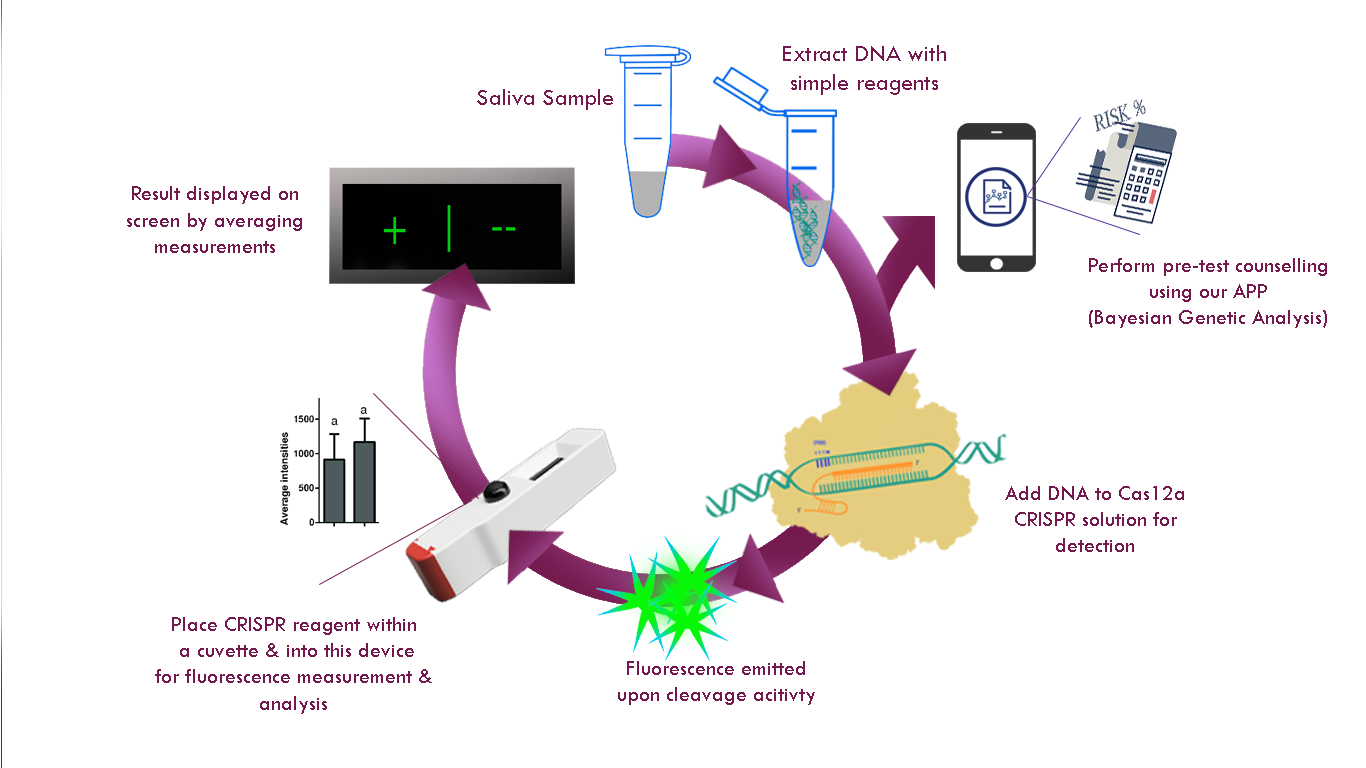
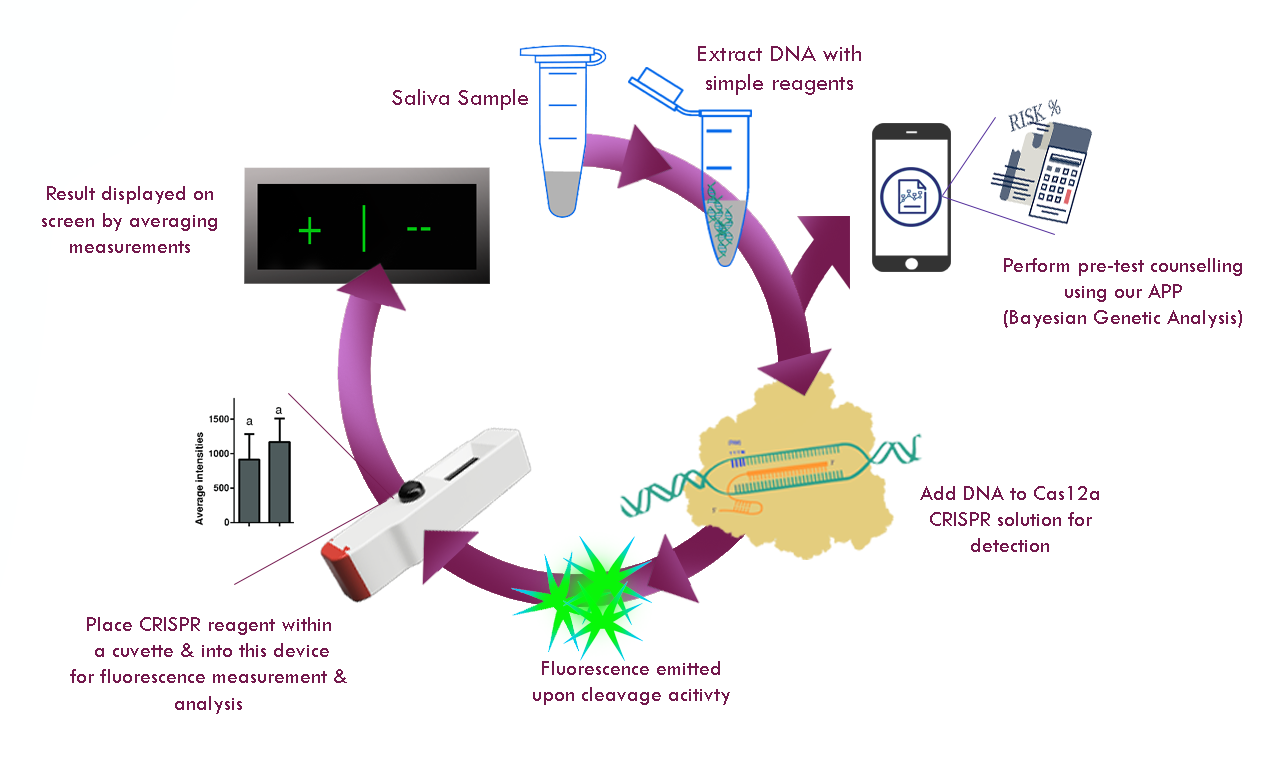
Edited descillustration

Changed region(s): [[0.0312, 0.06, 0.9688, 0.9296], [0.0625, 0.7797, 0.3125, 0.9296]]

diff --git a/WIKI/description.html b/WIKI/description.html
@@ -38,9 +38,9 @@
              <section class="section text-center background-white">
                     
                 <div class="line">
-                  <div class="s-12 m-12 l-7 center">
+                  <div class="s-12 m-12 l-9 center">
                     <div class="m-12 l-12 xl-12 xxl-12">
-                        <img class="full-img" src="img/img-outreach2.JPG"/>
+                        <img class="full-img" src="img/descillustration.png"/>
                      </div> 
                   </div>
                 </div>
